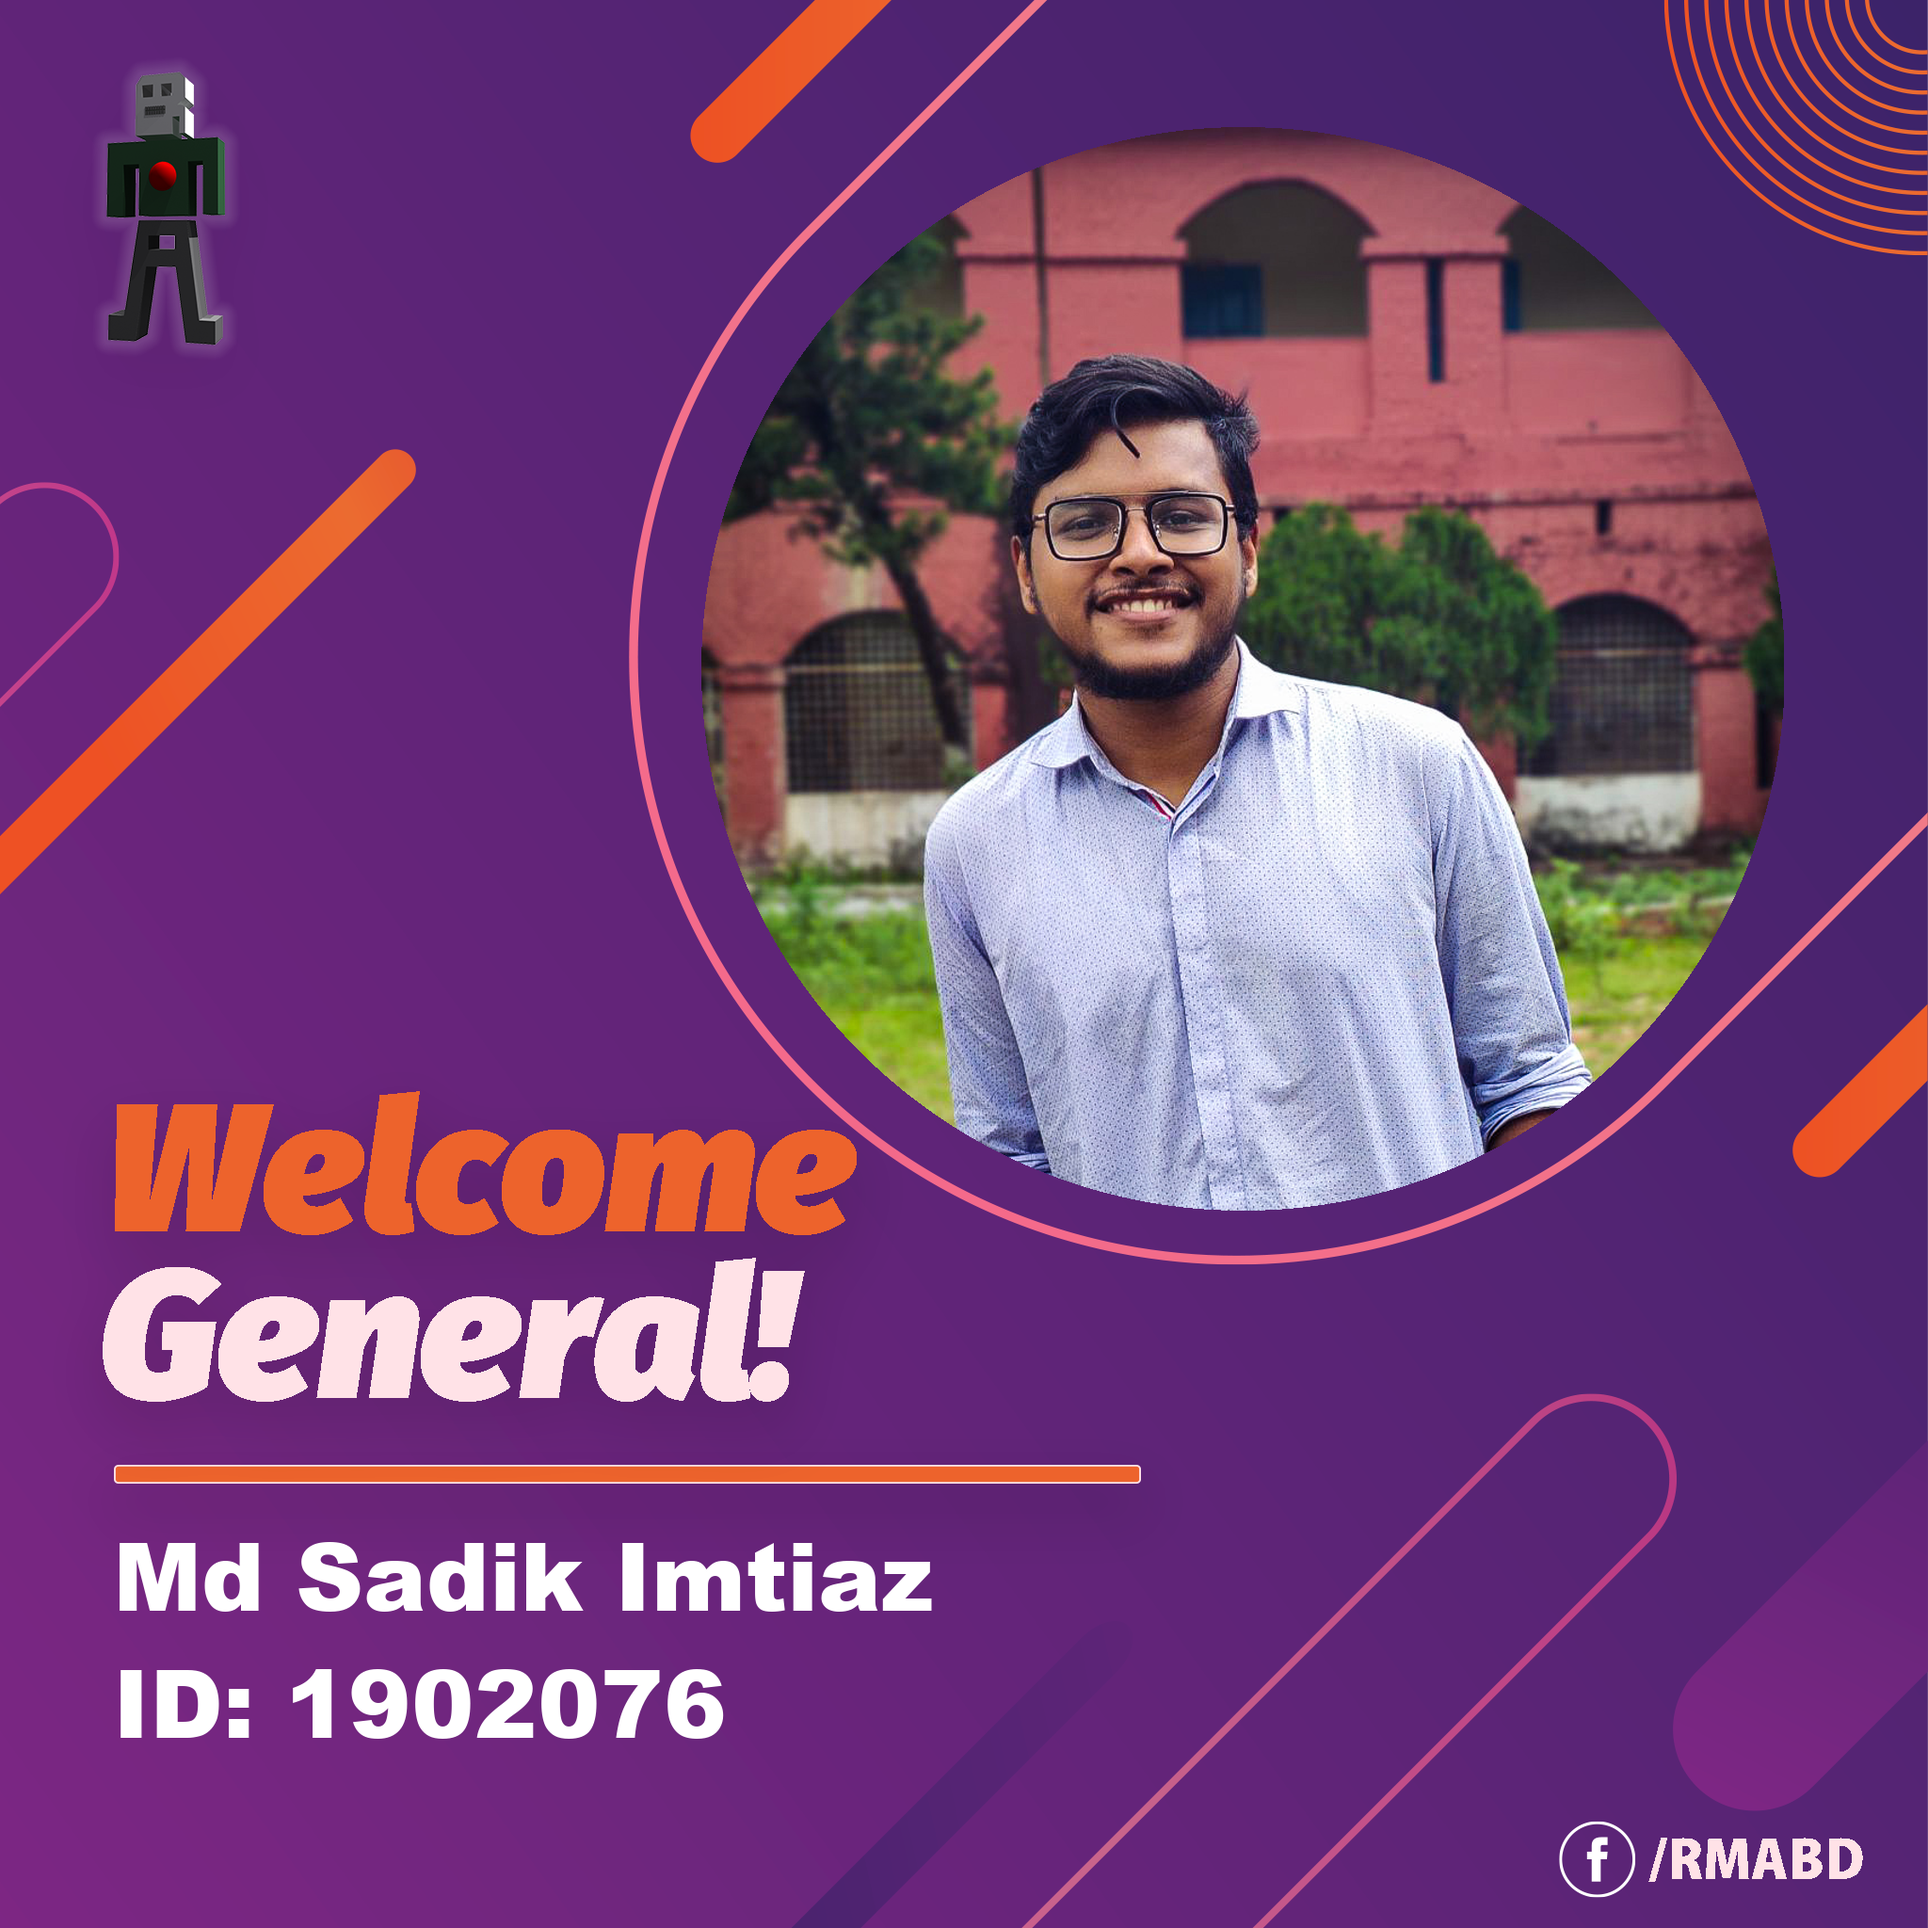
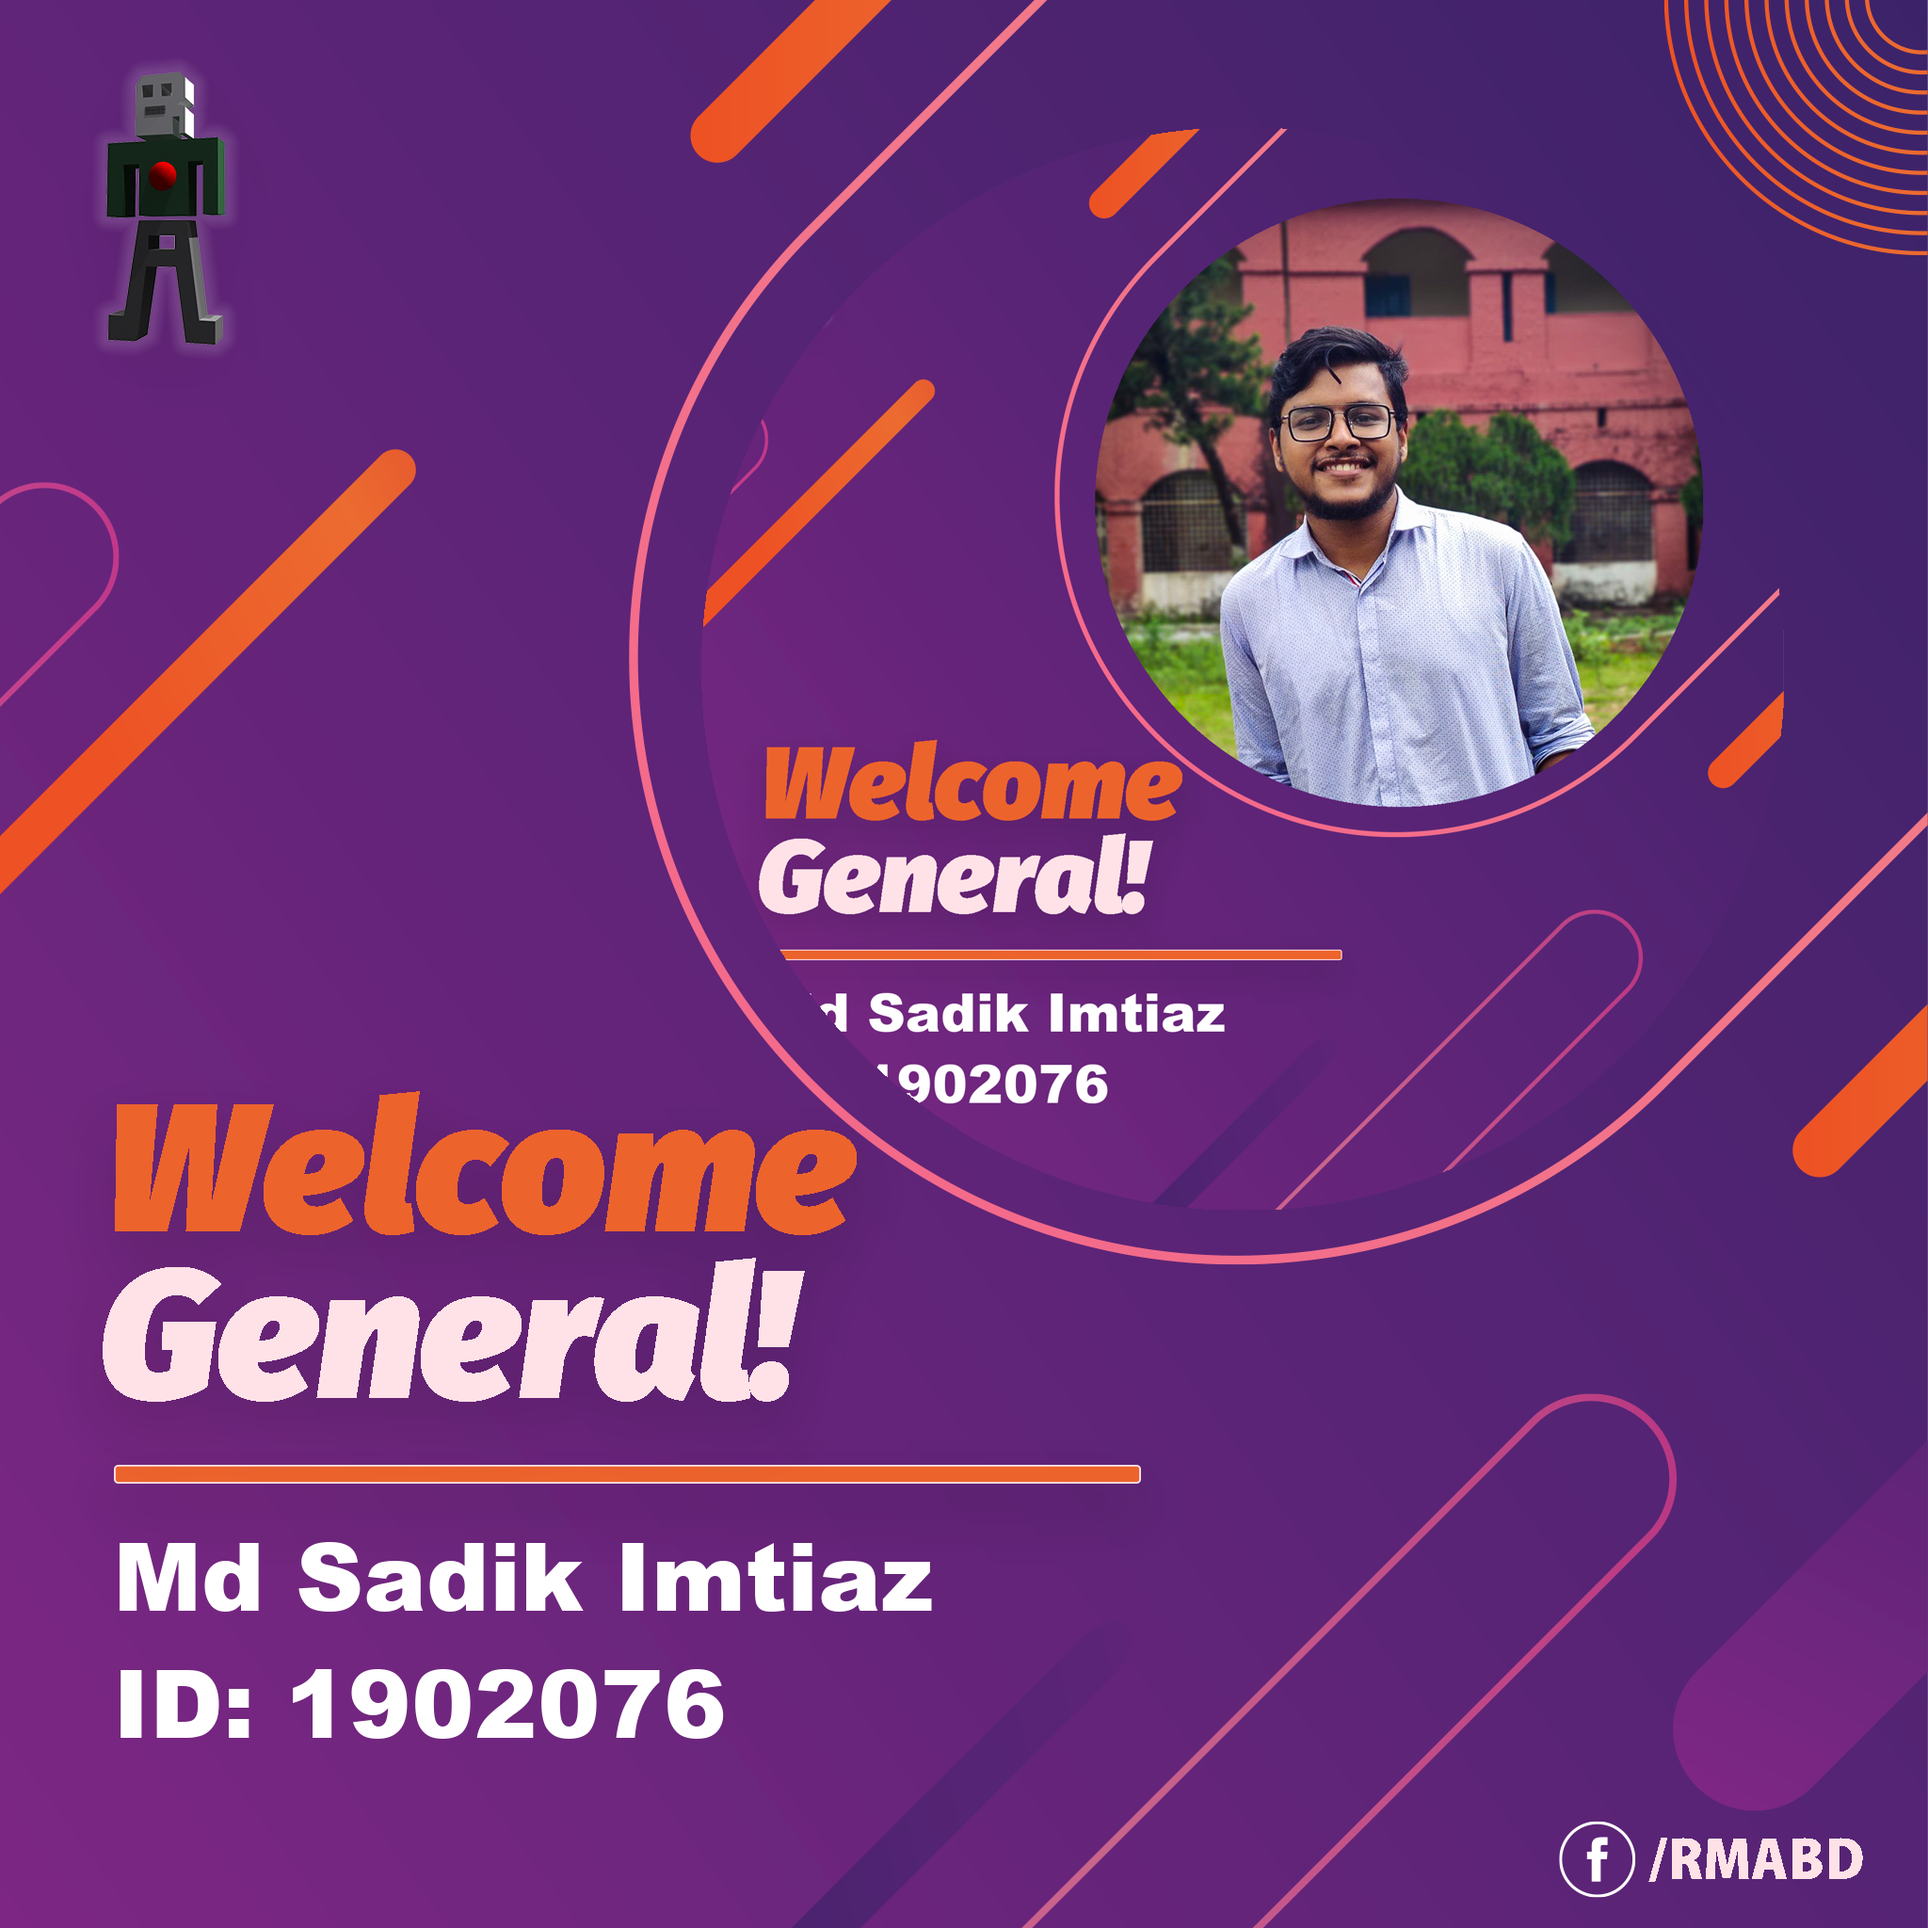
done

Changed region(s): [[0.3438, 0.0625, 0.9375, 0.625]]

diff --git a/autoFrame.py b/autoFrame.py
@@ -1,0 +1,87 @@
+from PIL import Image, ImageDraw, ImageFont, ImageFilter
+
+image = Image.open("cox's_bazar.jpg")
+font = ImageFont.truetype("arial.ttf", 28, encoding="unic")
+draw = ImageDraw.Draw(image)
+draw.text(xy=(50, 50), text="shishir", fill=(255, 69, 0), font=font)
+# image.show()
+
+
+# importing modlue
+from pandas import *
+
+# reading CSV file
+data = read_csv("./frameCSV.csv")
+
+# converting column data to list
+photo = data["Upload Your decent Photo"].tolist()
+name = data["Name"].tolist()
+student_id = data["Student ID"].tolist()
+
+
+# printing list data
+# print("Photo:", photo)
+
+
+# import requests
+
+# x = requests.get(
+#     "https://drive.google.com/file/d/1PfKwLWcJtDK43BruXi7qioDApQX9s53B/view"
+# )
+# print(x.status_code)
+# x.show()
+
+# import requests
+# from io import BytesIO
+
+# url = "https://drive.google.com/file/d/1PfKwLWcJtDK43BruXi7qioDApQX9s53B/view"
+# response = requests.get(url)
+# img = Image.open(BytesIO(response.content))
+# img.show()
+
+from PIL import Image
+import io
+import requests
+import matplotlib.pyplot as plt
+
+# find id
+
+for j in name:
+    image = Image.open('./template.png')
+    font = ImageFont.truetype("arial.ttf",60, encoding="unic")
+    draw = ImageDraw.Draw(image)
+    draw.text(xy=(200, 800), text="{0}".format(j), fill=(255, 69, 0), font=font)
+    image.show()
+
+for i in photo:
+    id = i.split("=")[1]
+    print("Id:", id)
+    url = "https://drive.google.com/uc?export=view&id={0}".format(id)
+    print(url)
+
+    response = requests.get(url, stream=True)
+
+    img = Image.open(response.raw)
+
+    newsize = (600, 600)
+    img = img.resize(newsize)
+
+    mask_im = Image.new("L", img.size, 0)
+    draw = ImageDraw.Draw(mask_im)
+    draw.ellipse((0, 0, 600, 600), fill=255)
+
+    tamplate = Image.open("./template.png")
+
+    tamplate.paste(img, (200, 150), mask_im)
+    # tamplate.show()
+    # tamplate.close()
+
+    # back_im = tamplate.copy()
+    # back_im.paste(img)
+    # back_im.save("./abx.jpg", quality=95)
+
+    # plt.imshow(img)
+    # plt.show()
+    # plt.close()
+
+

diff --git a/circle.py b/circle.py
@@ -1,0 +1,22 @@
+from PIL import Image, ImageDraw, ImageFilter
+
+im1 = Image.open("./template.png")
+im2 = Image.open("./template.png")
+
+newsize = (600, 600)
+im2 = im2.resize(newsize)
+
+
+mask_im = Image.new("L", im2.size, 0)
+draw = ImageDraw.Draw(mask_im)
+draw.ellipse((0,0,600, 600), fill=255)
+
+mask_im = mask_im.filter(ImageFilter.GaussianBlur(10))
+
+# mask_im.show()
+
+back_im = im1.copy()
+back_im.paste(im2, (100, 100), mask_im)
+back_im.show()
+
+print(draw.textsize(shishir))

diff --git a/autoframeresize.py b/autoframeresize.py
@@ -28,8 +28,8 @@ for i in data:
     # #resize the photo and set it in the tamplate
     # img = Image.open(BytesIO(response.content))
 
-    #open local photo
-    img = Image.open("../images/{0}.png".format(i['Student ID']))
+    #open downloaded photo 
+    img = Image.open("{0}.png".format(i['Student ID']))
 
     basewidth = 1150
     wpercent = (basewidth/float(img.size[0]))
